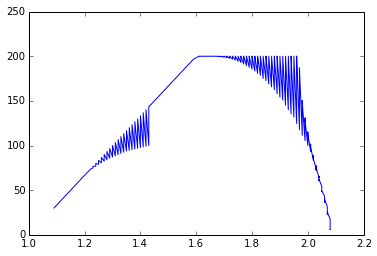
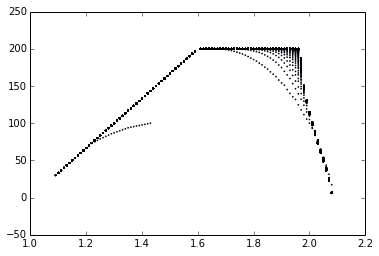
adl

diff --git a/bifurlotka.py b/bifurlotka.py
@@ -63,7 +63,8 @@ for x in range(len(T)):
                 Bif.append(T[x][0][g])
                 S.append(step[x])
 
-plt.plot(S, Bif)
+ 
+plt.scatter(S, Bif, s = 0.5)
 
 
 
